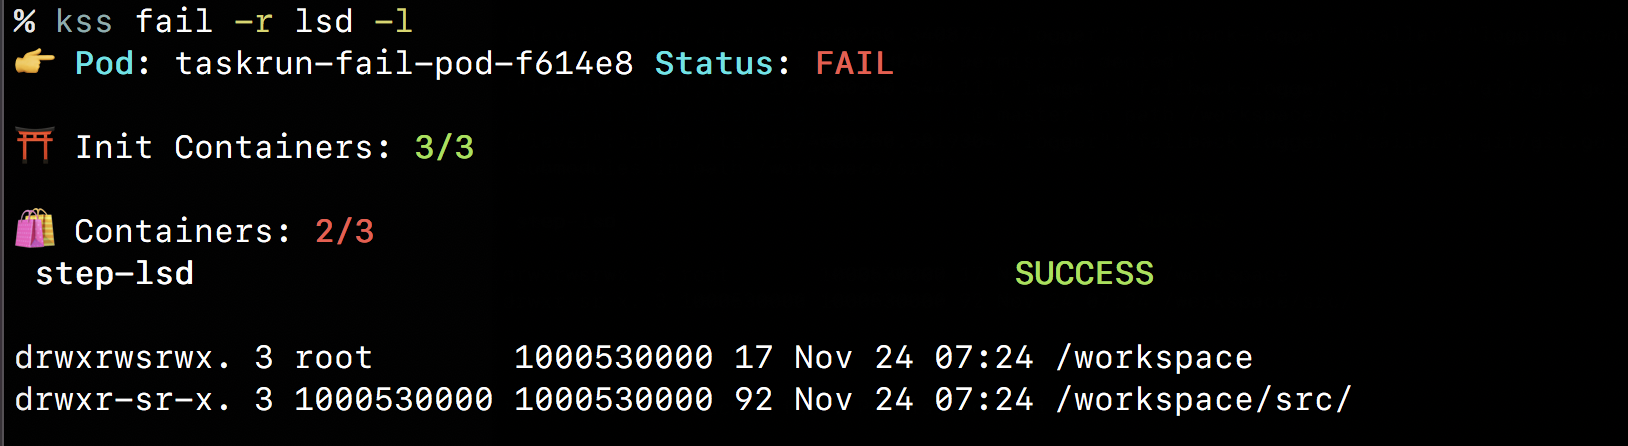
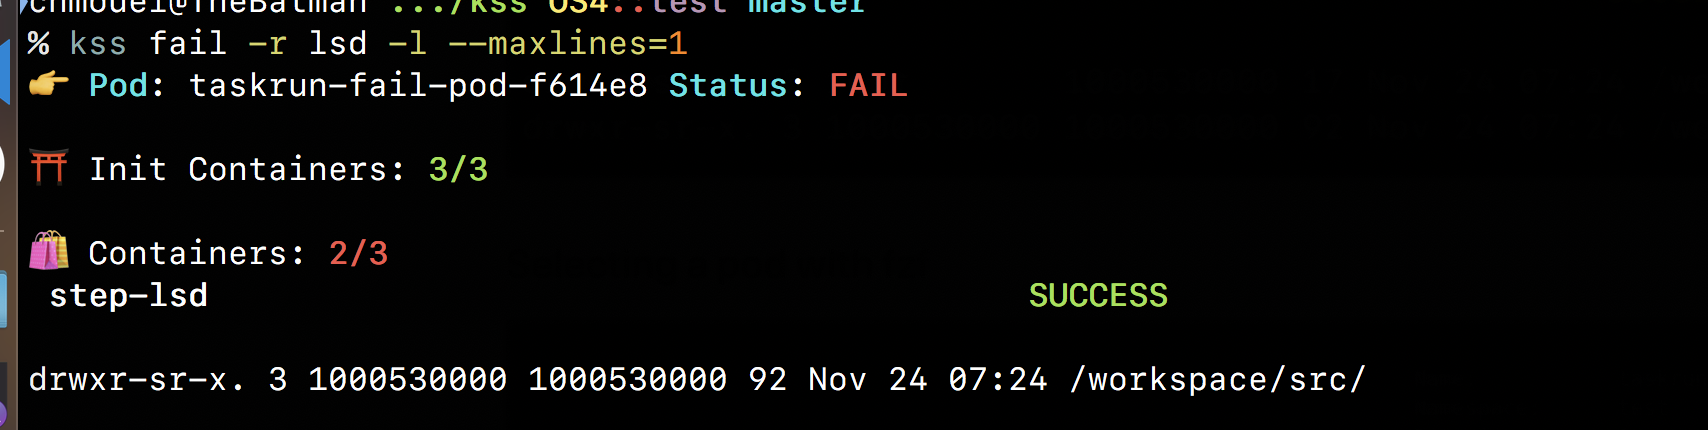
Only one line

Changed region(s): [[0.0, 0.0, 0.8292, 1.0], [0.5835, 0.5744, 0.7064, 0.7256]]

diff --git a/README.md b/README.md
@@ -28,7 +28,7 @@ With zsh you can install the [_kss](./_kss) completionfile  to your [fpath](http
 
 ![Fail run](.screenshots/logging.png)
 
-### Restrict to show logs only to certain container
+### Restrict to show logs only to certain container and only one line
 
 ![Restrict to some pod](.screenshots/restrict.png)
 
